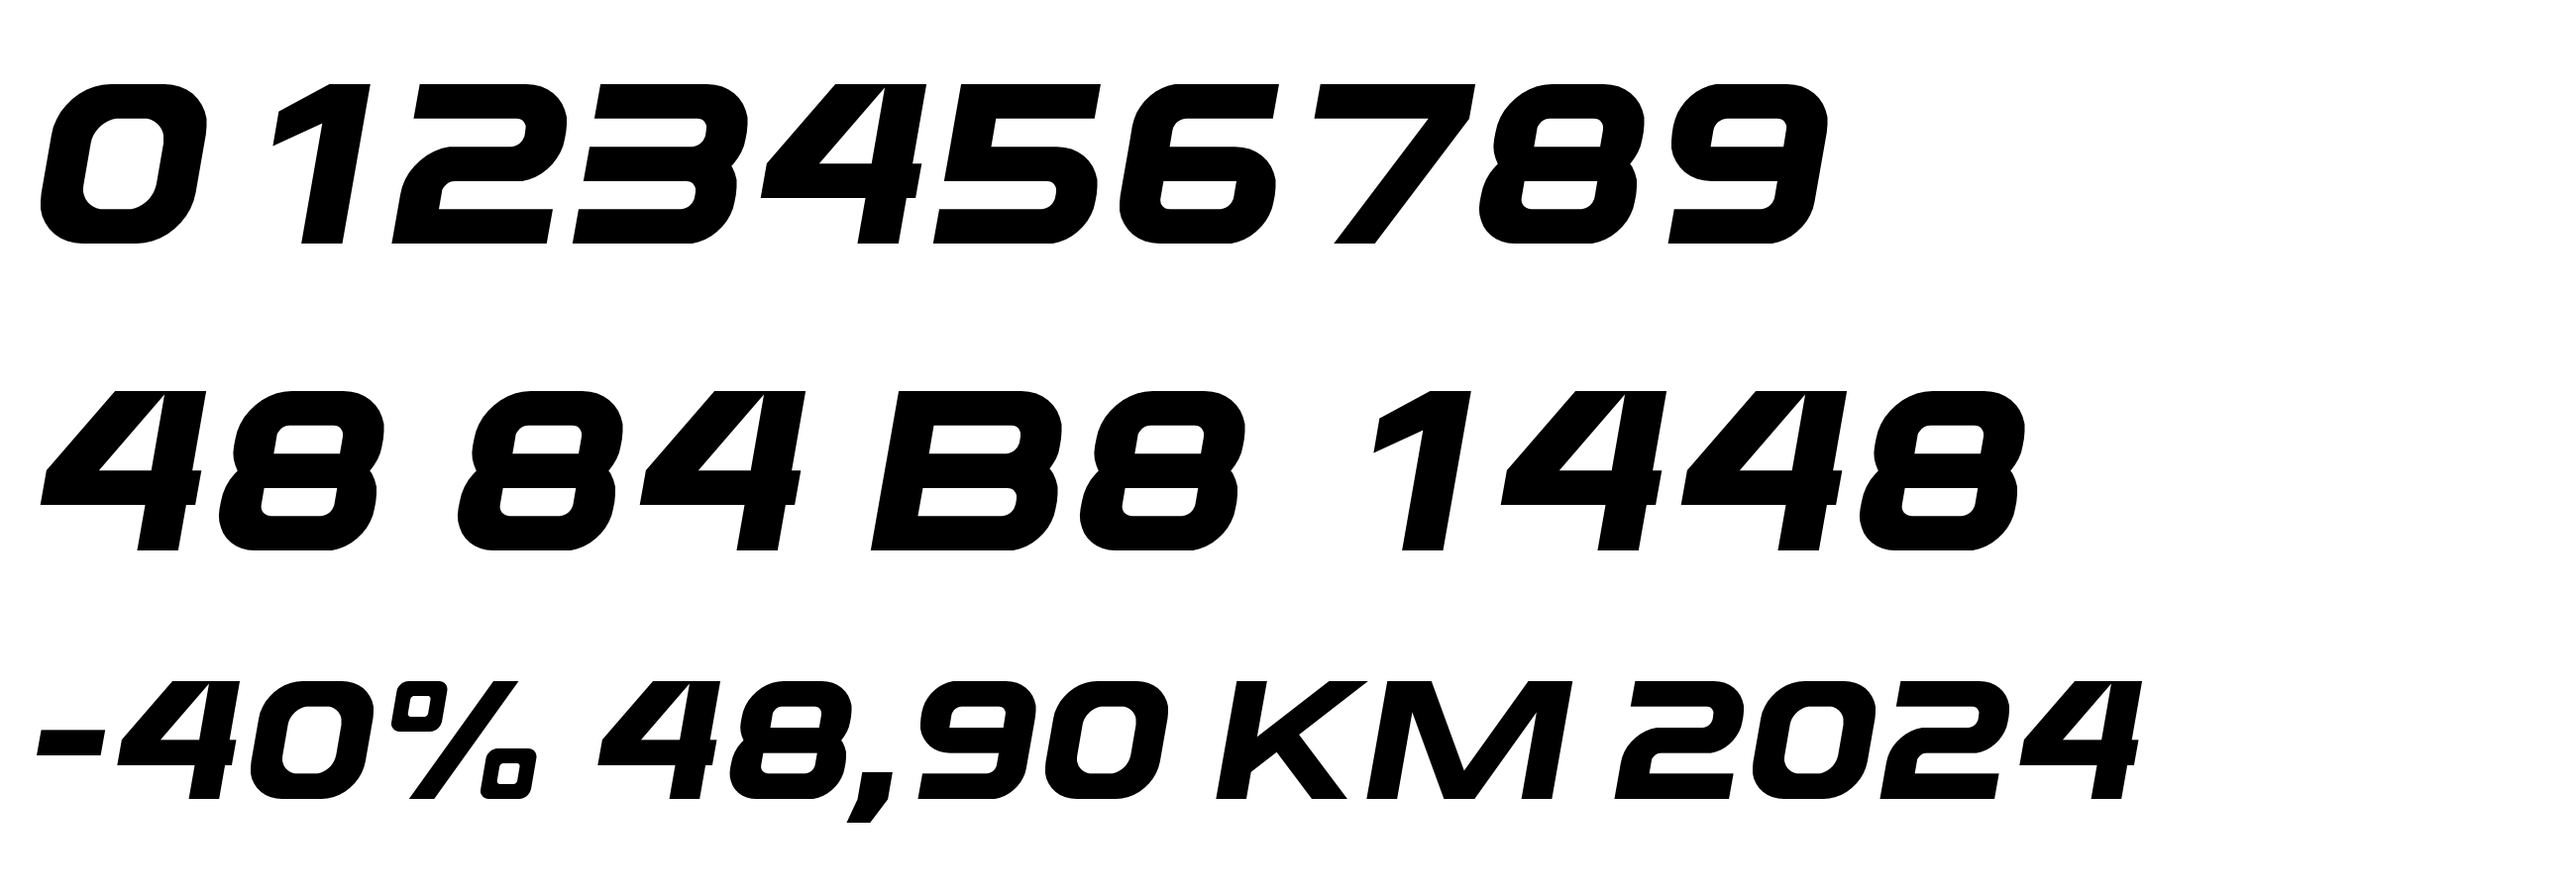
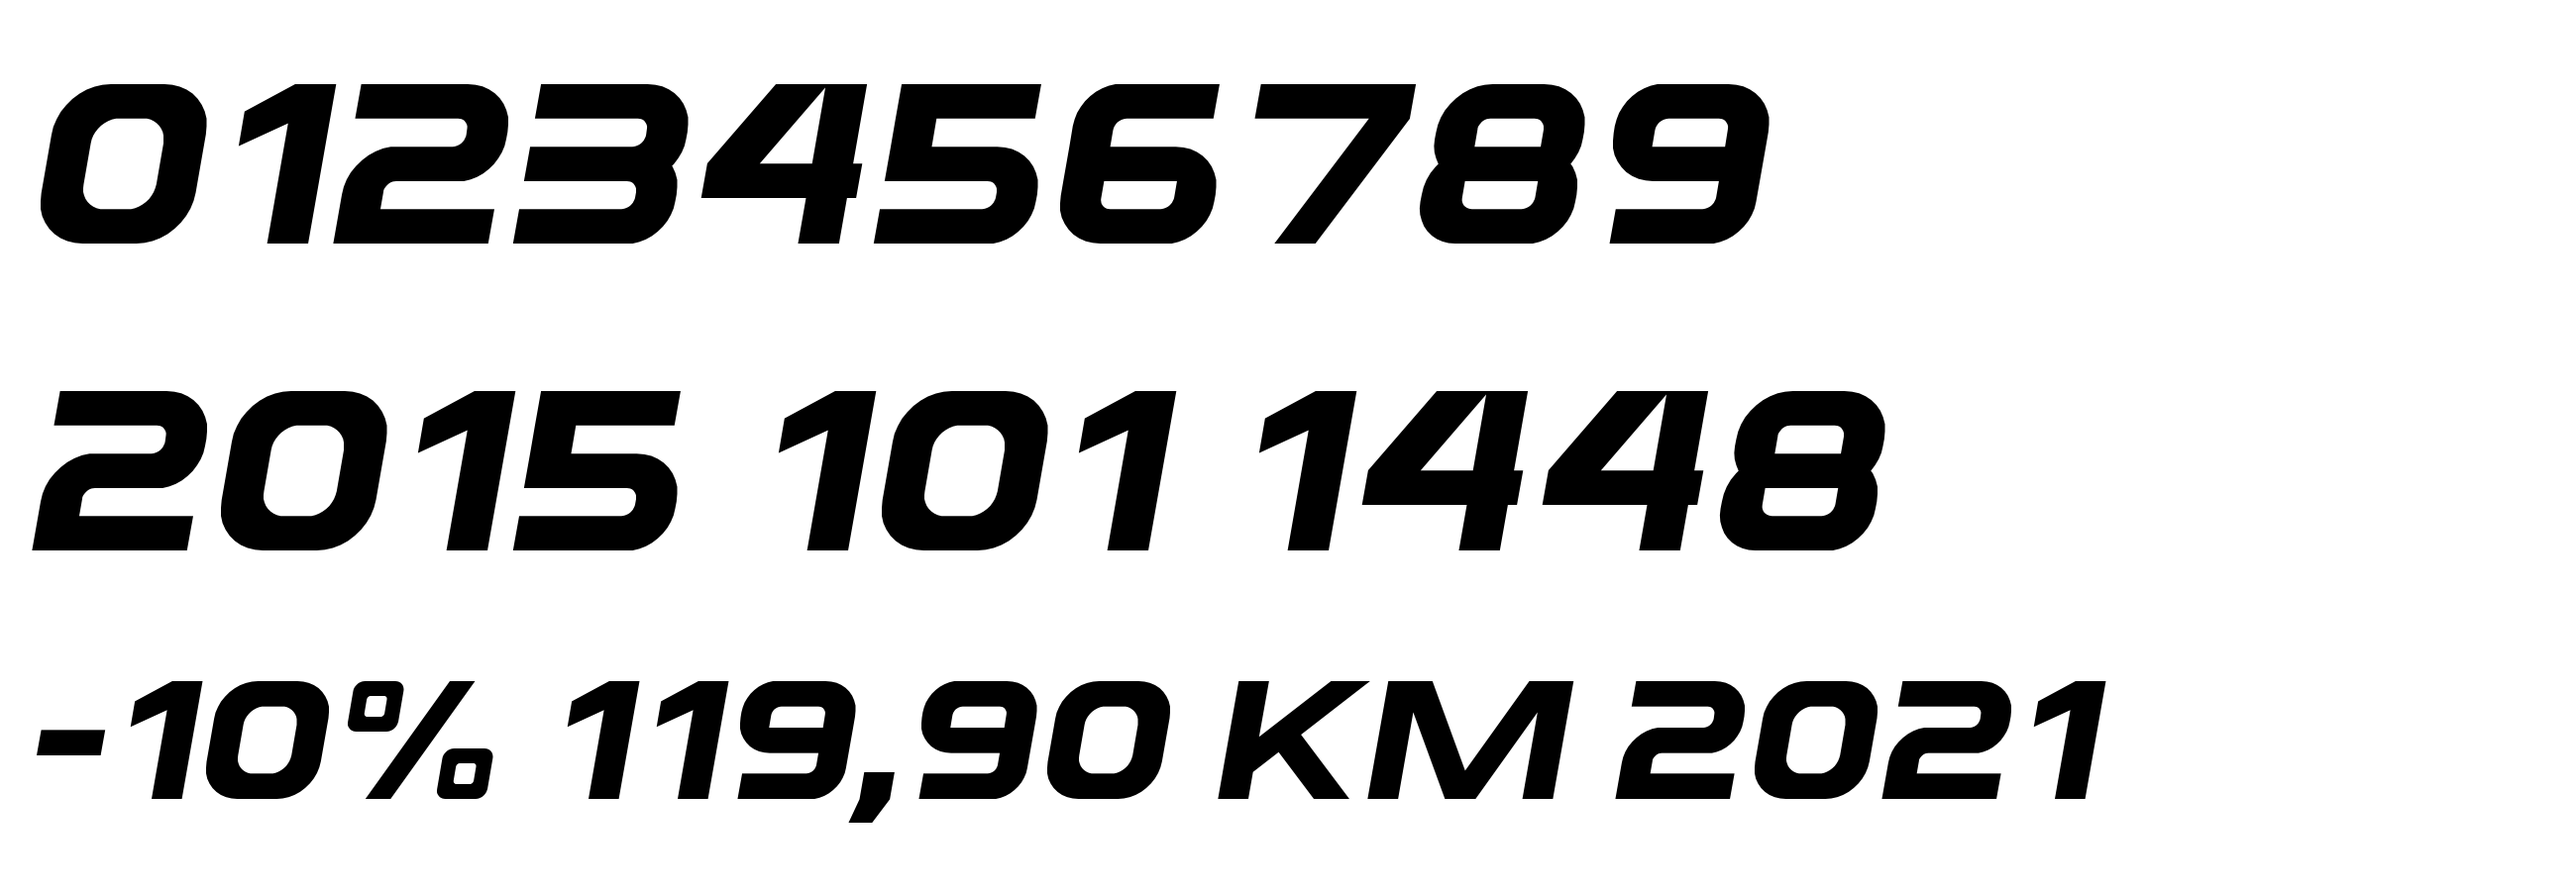
Font: digit 1 back to proportional width (420), owner choice B
Claude-Session: https://claude.ai/code/session_01VgbUEcHceGpcGcRoLDMoQW

diff --git a/font/build_prozone_font.py b/font/build_prozone_font.py
@@ -416,10 +416,9 @@ def n_0():
 
 
 def n_1():
-    # tabelarna sirina (kao ostali brojevi), znak centriran -> cijene se poravnavaju u kolonama
-    w1 = 420
-    g = U(box(w1 - S, 0, w1, CAP), Polygon([(w1 - S, CAP), (w1 - S, CAP - H - 20), (40, CAP - H - 120), (40, CAP - 120)]))
-    return affinity.translate(g, (DW - w1) / 2 + 20, 0), DW
+    # uski (proporcionalni) 1 - odabrao vlasnik (varijanta B): normalni razmaci u tekstu
+    W = 420
+    return U(box(W - S, 0, W, CAP), Polygon([(W - S, CAP), (W - S, CAP - H - 20), (40, CAP - H - 120), (40, CAP - 120)])), W
 
 
 def n_2():
